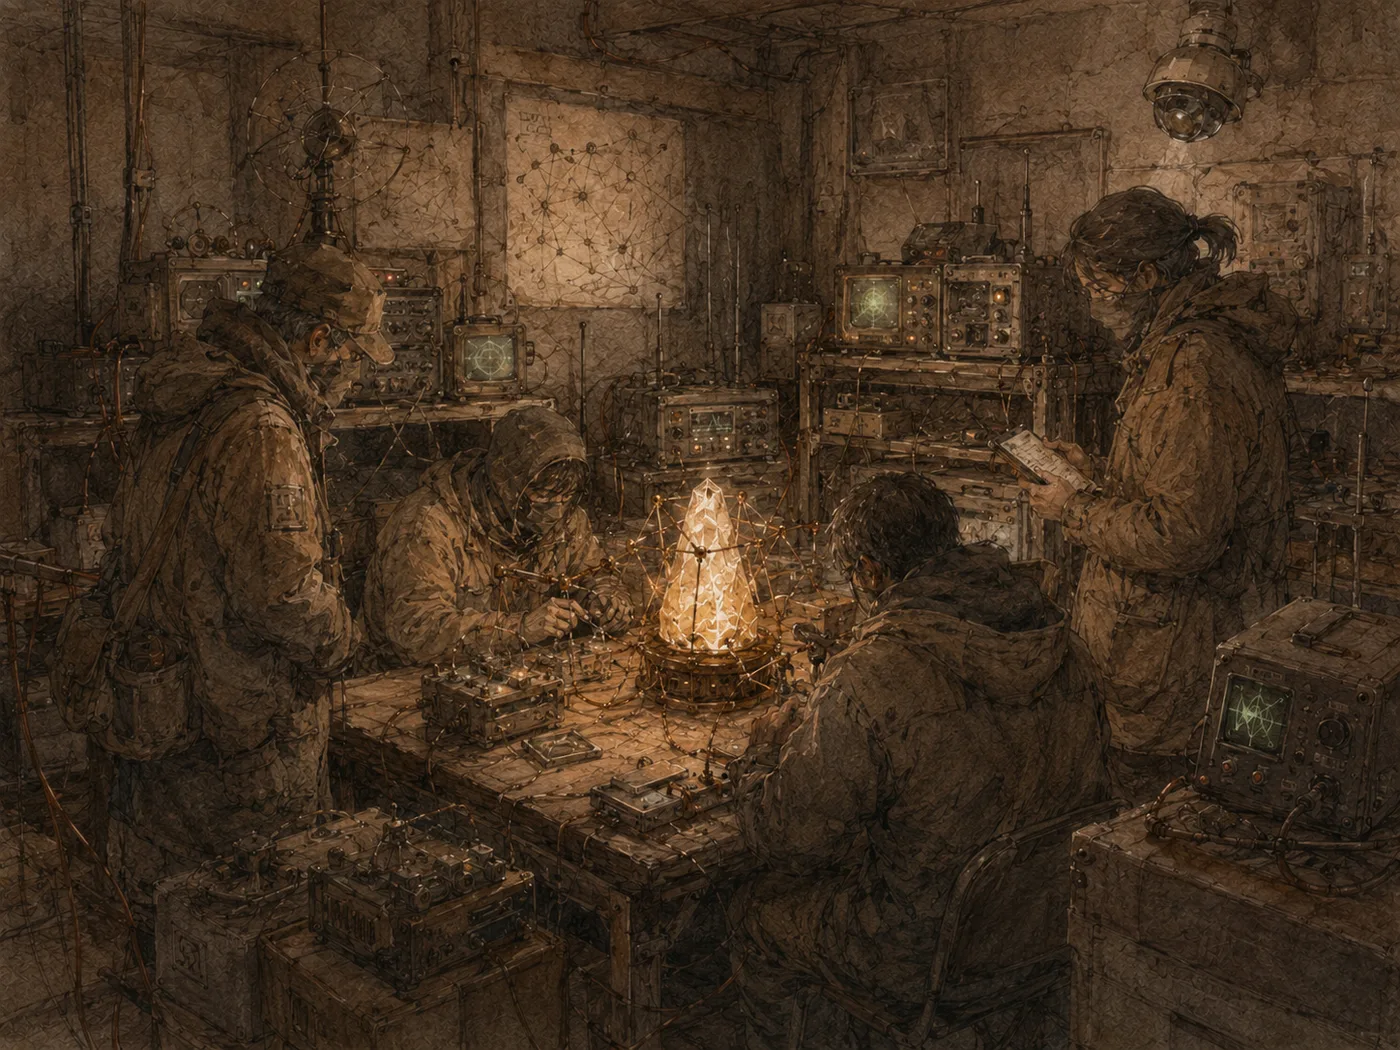
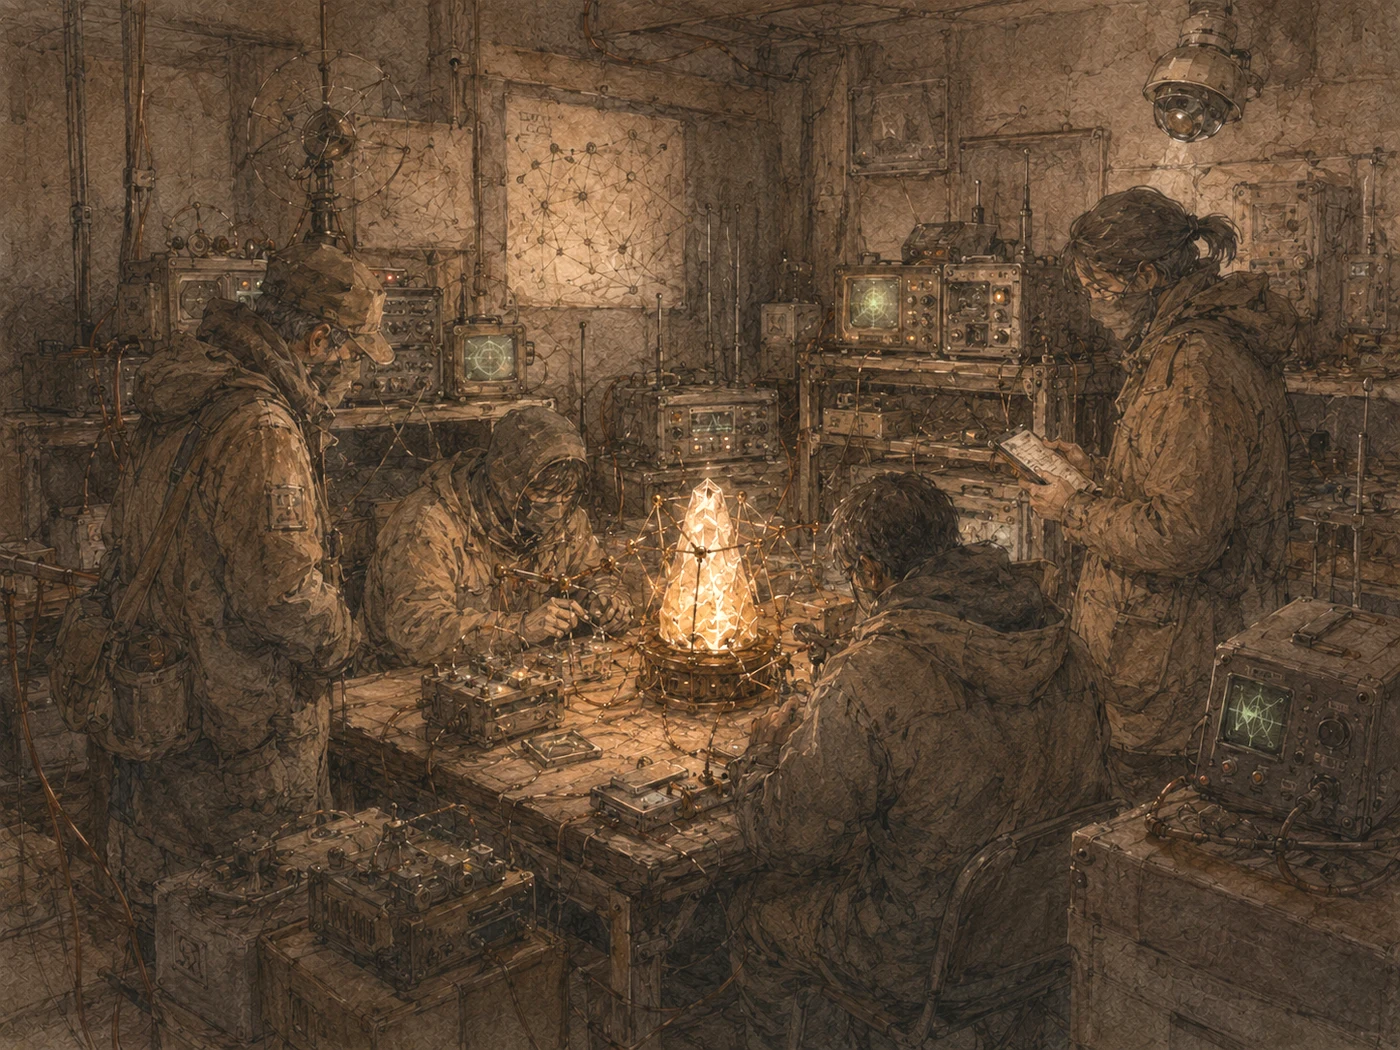
Promote Testimonials, Making and Reading to the nav; add How to Help
Nav: the Memory Wall becomes Testimonials and moves into the primary row, along
with the afterword and the bibliography. Nine items wrapped the bar onto two
rows, so those two are labelled Making and Reading — single row from 1366px up,
measured. The GitHub source link is off the footer.

New page, /act. The novel's argument is that resilience is documentation and
systems rather than heroism, and the afterword says plainly that the Okhla plant
and the heat are not fiction — so the page points at people doing that work now:
PRS Legislative Research, the Internet Freedom Foundation and Article 14 on
transparency; CSE and Land Conflict Watch on air, waste and displacement; There
Is No Earth B and Fridays For Future for anyone who wants to turn up rather than
read. It leads with the waste-to-energy campaign the book is dedicated to.

Every organisation link was checked to resolve before it went in, and the page
says so — along with the fact that none of them endorsed the book or know it
exists.

Two dark plates lifted: the lamp workshop and the relay were lit by a single
lamp in a dark room, which is the point of them, but at card size they read as
black rectangles. Shadow lift only; the lamp still carries the frame.

Mobile: the More menu hung off the screen edge. My earlier specificity fix on
the desktop rule out-ranked the mobile override, leaving it absolutely
positioned inside the panel. Qualified to match.
[…]

diff --git a/src/lib/site.ts b/src/lib/site.ts
@@ -123,18 +123,19 @@ export const nav = [
   { href: '/timeline', label: 'Timeline' },
   { href: '/map', label: 'Map' },
   { href: '/illustrations', label: 'Illustrations' },
+  { href: '/memory', label: 'Testimonials' },
+  { href: '/making', label: 'Making' },
+  { href: '/reading', label: 'Reading' },
 ] as const;
 
 /** Secondary destinations, grouped under "More" in the header. */
 export const navMore = [
-  { href: '/making', label: 'On the Making', note: "The author's afterword" },
-  { href: '/reading', label: 'Further Reading', note: 'The books behind the book' },
+  { href: '/act', label: 'How to Help', note: 'The parts that are not fiction' },
+  { href: '/fanfic', label: 'Reader Fiction', note: 'Stories written in this world' },
   { href: '/audio', label: 'Salt Lamp Archive', note: 'Recordings and broadcasts' },
   { href: '/constellation', label: 'Constellation', note: 'The archive as one graph' },
   { href: '/archive', label: 'Objects', note: 'Catalogued artefacts' },
-  { href: '/memory', label: 'Memory Wall', note: 'Reader artwork and testimony' },
-  { href: '/fanfic', label: 'Reader Fiction', note: 'Stories written in this world' },
-  { href: '/wallpapers', label: 'Wallpapers', note: 'The Sumati Series' },
+  { href: '/wallpapers', label: 'Wallpapers', note: 'For a phone or a desktop' },
   { href: '/sigil', label: 'Firebird Sigil', note: 'Make your own wallpaper' },
   { href: '/lamplighter', label: 'Lamplighter', note: 'A memory game' },
 ] as const;
@@ -144,5 +145,4 @@ export const footerLinks = [
   { href: '/privacy', label: 'Privacy' },
   { href: '/terms', label: 'Terms' },
   { href: '/rss.xml', label: 'RSS' },
-  { href: 'https://github.com/Varnasr/theverylastsuperhero', label: 'Source' },
 ] as const;

diff --git a/src/content.config.ts b/src/content.config.ts
@@ -96,6 +96,17 @@ const glossary = defineCollection({
   }),
 });
 
+const action = defineCollection({
+  loader: glob({ base: './src/content/action', pattern: '**/*.md' }),
+  schema: z.object({
+    name: z.string(),
+    url: z.string().url(),
+    /** Section heading on the page. */
+    group: z.string(),
+    order: z.number().default(100),
+  }),
+});
+
 const reading = defineCollection({
   loader: glob({ base: './src/content/reading', pattern: '**/*.md' }),
   schema: z.object({
@@ -215,4 +226,4 @@ const memory = defineCollection({
 });
 
 export const collections = {
-  glossary, fanfic, reading, lore, timeline, archive, wallpapers, memory };
+  action, glossary, fanfic, reading, lore, timeline, archive, wallpapers, memory };

diff --git a/src/content/action/prs-legislative-research.md b/src/content/action/prs-legislative-research.md
@@ -1,0 +1,8 @@
+---
+name: "PRS Legislative Research"
+url: "https://prsindia.org/"
+group: "Transparency & governance"
+order: 1
+---
+
+Tracks every bill in Parliament, in plain English, with the text, the debate and the voting record. If you have ever wanted to know what was actually passed rather than what was announced, this is where you look. The novel's Curriculum Division rewrites five years of history in a single notice; PRS exists so that the real version stays legible while it is still happening.

diff --git a/src/content/action/internet-freedom-foundation.md b/src/content/action/internet-freedom-foundation.md
@@ -1,0 +1,8 @@
+---
+name: "Internet Freedom Foundation"
+url: "https://internetfreedom.in/"
+group: "Transparency & governance"
+order: 2
+---
+
+Litigates and campaigns on surveillance, facial recognition, and the laws that govern them in India. They file the RTIs and the petitions that P.A.I. would have made impossible. Much of what the book imagines as settled — biometric gates, compliance scoring, opaque algorithms deciding access — is being argued over right now, and IFF is doing the arguing.

diff --git a/src/content/action/cse-india.md b/src/content/action/cse-india.md
@@ -1,0 +1,8 @@
+---
+name: "Centre for Science and Environment"
+url: "https://www.cseindia.org/"
+group: "Air, waste & climate"
+order: 4
+---
+
+Delhi's most persistent source of actual numbers on air quality, waste and industrial emissions — including on waste-to-energy plants, which is the part of this novel that is not speculative at all. Their work is why anyone can argue about stack readings with a figure in hand.

diff --git a/src/content/action/article-14.md b/src/content/action/article-14.md
@@ -1,0 +1,8 @@
+---
+name: "Article 14"
+url: "https://article-14.com/"
+group: "Transparency & governance"
+order: 3
+---
+
+Long-form reporting on the rule of law, named for the constitutional right to equality. The book's Resistance fights with documentation and doubt rather than fire; this is what that looks like when it is a job.

diff --git a/src/content/action/land-conflict-watch.md b/src/content/action/land-conflict-watch.md
@@ -1,0 +1,8 @@
+---
+name: "Land Conflict Watch"
+url: "https://www.landconflictwatch.org/"
+group: "Air, waste & climate"
+order: 5
+---
+
+Documents every ongoing land conflict in India — who is being displaced, by which project, and under what law. Thakur GreenWorks is fiction. The pattern it is built from is a database.

diff --git a/src/content/action/fridays-for-future.md b/src/content/action/fridays-for-future.md
@@ -1,0 +1,8 @@
+---
+name: "Fridays For Future"
+url: "https://fridaysforfuture.org/"
+group: "Getting involved"
+order: 7
+---
+
+The global school strike movement, with active Indian chapters. Sumati is fourteen and nobody asks her to be a witness; the story makes her one anyway. This is the version where you volunteer.

diff --git a/src/content/action/there-is-no-earth-b.md b/src/content/action/there-is-no-earth-b.md
@@ -1,0 +1,8 @@
+---
+name: "There Is No Earth B"
+url: "https://www.thereisnoearthb.com/"
+group: "Getting involved"
+order: 6
+---
+
+An Indian youth climate collective, and a good first door if you are young and want something to do rather than something to read.
